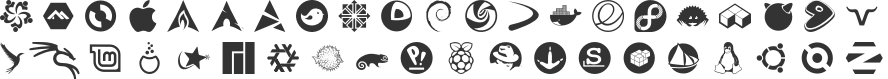
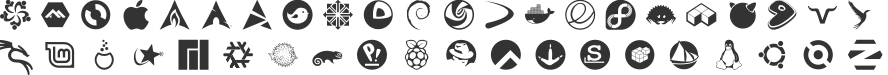
Regenerate assets

diff --git a/assets/font-logos-preview.html b/assets/font-logos-preview.html
@@ -196,6 +196,7 @@
 .fl-pop-os:before,
 .fl-raspberry-pi:before,
 .fl-redhat:before,
+.fl-rocky-linux:before,
 .fl-sabayon:before,
 .fl-slackware:before,
 .fl-slackware-inverse:before,
@@ -255,6 +256,7 @@
 .fl-pop-os:before { content: "\f12b"; }
 .fl-raspberry-pi:before { content: "\f115"; }
 .fl-redhat:before { content: "\f116"; }
+.fl-rocky-linux:before { content: "\f12f"; }
 .fl-sabayon:before { content: "\f117"; }
 .fl-slackware:before { content: "\f118"; }
 .fl-slackware-inverse:before { content: "\f119"; }
@@ -280,7 +282,7 @@
   <body class="characters-off">
     <div id="page" class="container">
       <header>
-        <h1>font-logos contains 45 glyphs:</h1>
+        <h1>font-logos contains 46 glyphs:</h1>
         <a onclick="toggleCharacters(); return false;" href="#">Toggle Preview Characters</a>
       </header>
 
@@ -737,6 +739,19 @@
         <div class="usage">
           <input class="class" type="text" readonly="readonly" onClick="this.select();" value=".fl-redhat" />
           <input class="point" type="text" readonly="readonly" onClick="this.select();" value="&amp;#xf116;" />
+        </div>
+      </div>
+      
+      <div class="glyph">
+        <div class="preview-glyphs">
+          <span class="step size-12"><span class="letters">Pp</span><i id="fl-rocky-linux" class="fl-rocky-linux"></i></span><span class="step size-14"><span class="letters">Pp</span><i id="fl-rocky-linux" class="fl-rocky-linux"></i></span><span class="step size-16"><span class="letters">Pp</span><i id="fl-rocky-linux" class="fl-rocky-linux"></i></span><span class="step size-18"><span class="letters">Pp</span><i id="fl-rocky-linux" class="fl-rocky-linux"></i></span><span class="step size-21"><span class="letters">Pp</span><i id="fl-rocky-linux" class="fl-rocky-linux"></i></span><span class="step size-24"><span class="letters">Pp</span><i id="fl-rocky-linux" class="fl-rocky-linux"></i></span><span class="step size-36"><span class="letters">Pp</span><i id="fl-rocky-linux" class="fl-rocky-linux"></i></span><span class="step size-48"><span class="letters">Pp</span><i id="fl-rocky-linux" class="fl-rocky-linux"></i></span><span class="step size-60"><span class="letters">Pp</span><i id="fl-rocky-linux" class="fl-rocky-linux"></i></span><span class="step size-72"><span class="letters">Pp</span><i id="fl-rocky-linux" class="fl-rocky-linux"></i></span>
+        </div>
+        <div class="preview-scale">
+          <span class="step">12</span><span class="step">14</span><span class="step">16</span><span class="step">18</span><span class="step">21</span><span class="step">24</span><span class="step">36</span><span class="step">48</span><span class="step">60</span><span class="step">72</span>
+        </div>
+        <div class="usage">
+          <input class="class" type="text" readonly="readonly" onClick="this.select();" value=".fl-rocky-linux" />
+          <input class="point" type="text" readonly="readonly" onClick="this.select();" value="&amp;#xf12f;" />
         </div>
       </div>
       

diff --git a/assets/font-logos.css b/assets/font-logos.css
@@ -85,6 +85,7 @@
 .fl-pop-os:before,
 .fl-raspberry-pi:before,
 .fl-redhat:before,
+.fl-rocky-linux:before,
 .fl-sabayon:before,
 .fl-slackware:before,
 .fl-slackware-inverse:before,
@@ -144,6 +145,7 @@
 .fl-pop-os:before { content: "\f12b"; }
 .fl-raspberry-pi:before { content: "\f115"; }
 .fl-redhat:before { content: "\f116"; }
+.fl-rocky-linux:before { content: "\f12f"; }
 .fl-sabayon:before { content: "\f117"; }
 .fl-slackware:before { content: "\f118"; }
 .fl-slackware-inverse:before { content: "\f119"; }
